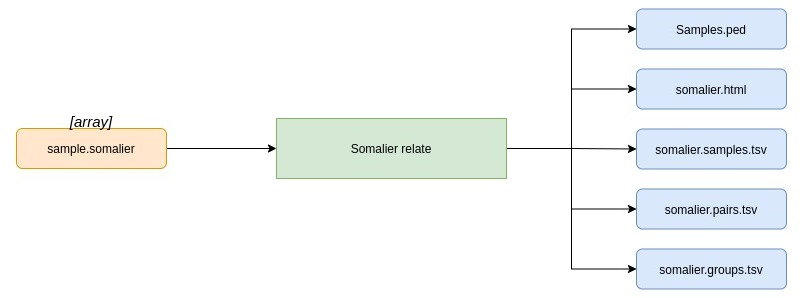
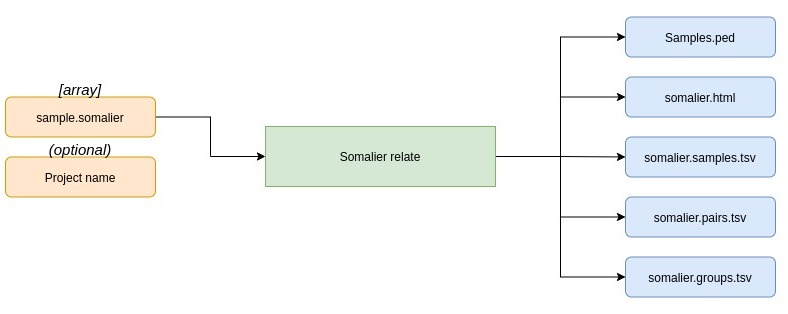
Update inputs

diff --git a/README.md b/README.md
@@ -8,7 +8,8 @@ This app is based on https://github.com/brentp/somalier
 ![Image of workflow](https://github.com/eastgenomics/eggd_somalier_relate/blob/dev/somalier_relate_workflow.jpg)
 
 ## What are the inputs?
-* Array of {sample}.somalier files. These are the output files from somalier
+* Array of {sample}.somalier files. These are the output files from somalier extract.
+* A string for project folder which will be the output file prefixes, default is somalier prefix (Optional).
 
 ## What are the outputs?
 
